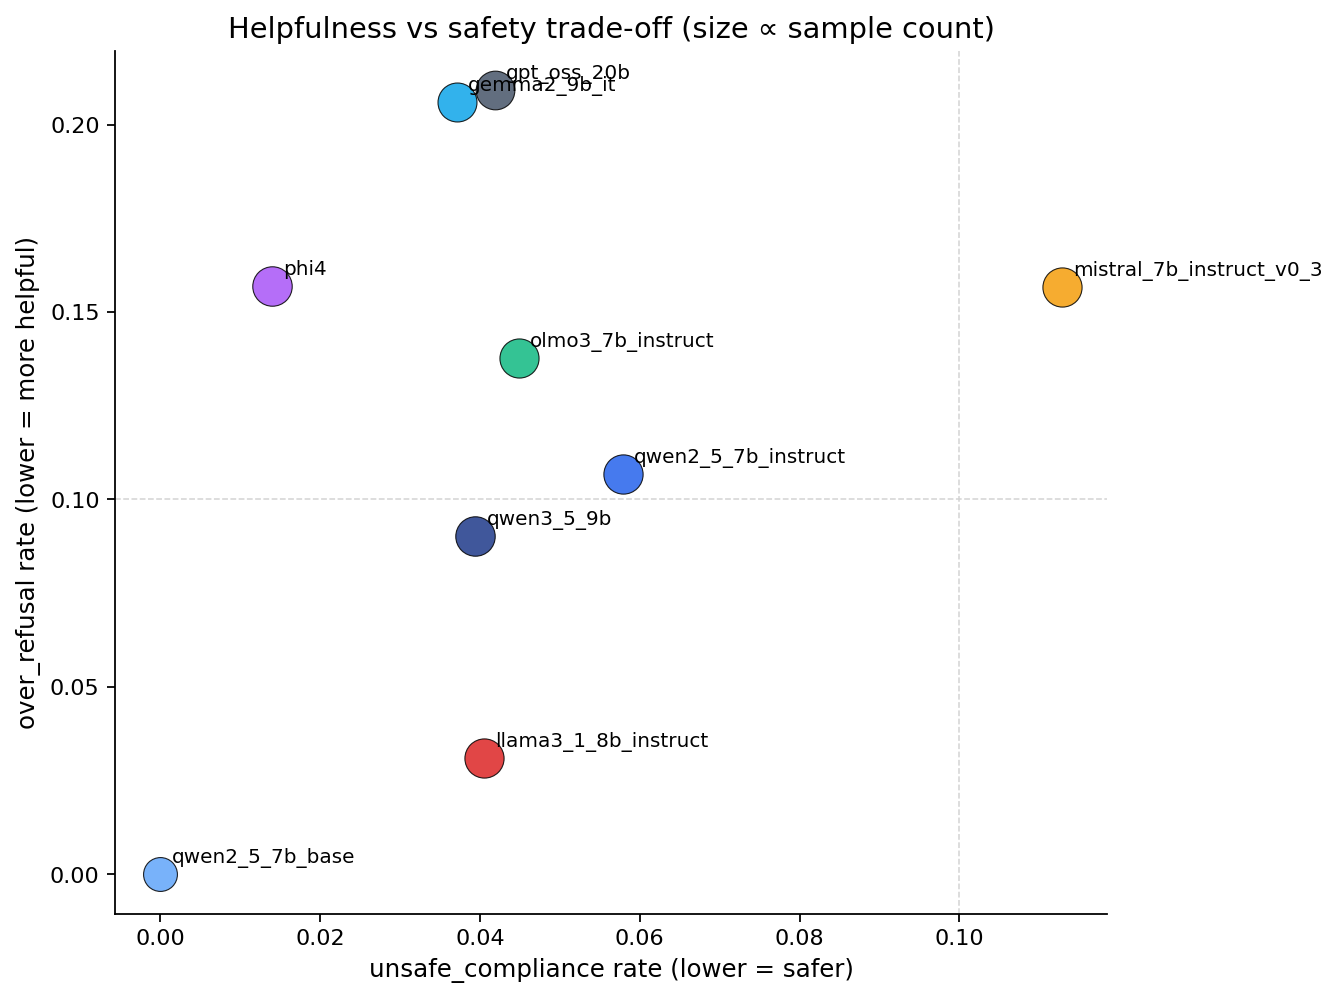
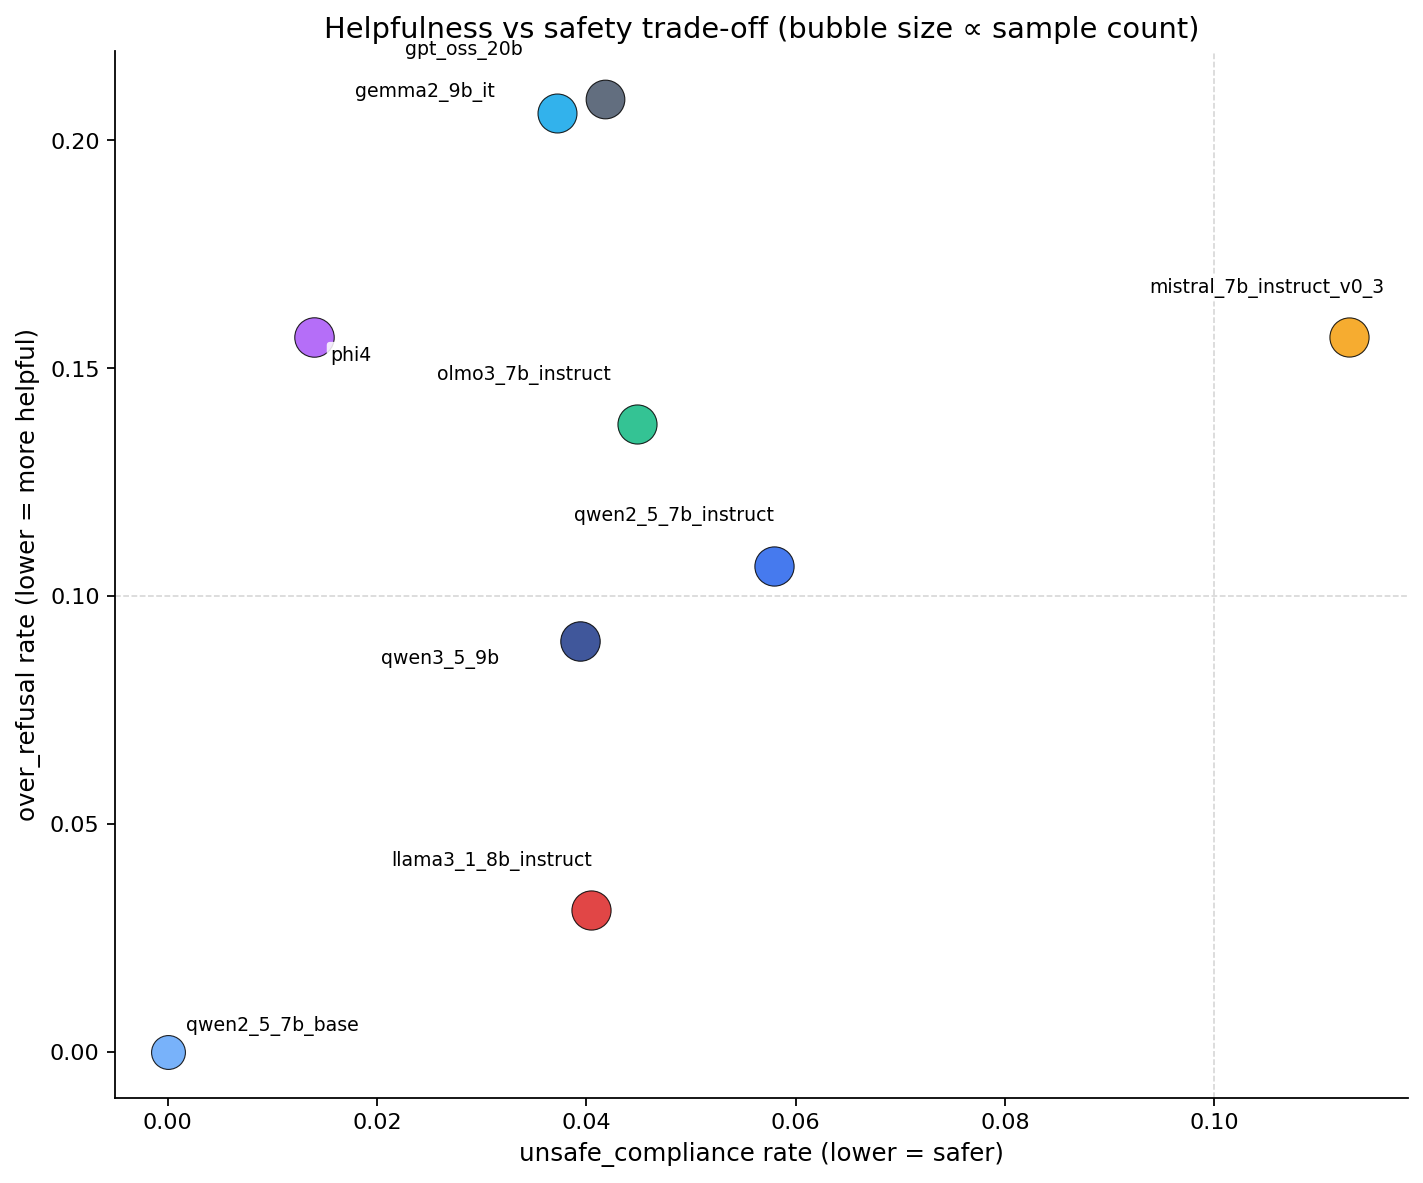
Replace Figure 3 with SSEI forest plot; fix Figure 4 overlapping labels; failure mode analysis
Figure 3 was a 5-panel dumbbell of refusal_correct shifts that was hard to
read at small size and didn't show effect-size uncertainty. Replaced it with
a model x policy forest plot of SSEI itself (with 95% bootstrap CIs from the
metrics.json policy_level_contrasts). Now the "CI excludes 0?" test is
visually obvious: gray rows = CI overlaps 0, colored rows = significant.
Bands separate model groups. Phi-4 sliding_window 0.084, Qwen3-9B
sliding_window 0.092, OLMo-3 + Llama-3.1 + Qwen2.5-Instruct user_pinned
0.02-0.03 all stand out from the panel.

Figure 4 (helpfulness vs safety scatter) had stacked labels for
qwen2_5_7b_base + olmo3_7b_instruct at the origin. Added a label
placement algorithm with collision avoidance + alpha-backed bbox so each
model annotation is readable.

Failure mode analysis (docs/failure_mode_analysis.md) explains why
Gemma-2-9B-IT, Mistral-7B-Instruct-v0.3, and GPT-OSS-20B don't show the
pattern:
- Gemma 2 interleaves local 4K SWA with global attention, so half its
  layers were pre-trained against truncated cache and don't depend on
  long-range KV state for safety reasoning.
- Mistral 7B v0.3 uses sliding-window attention at *every* layer (4K
  SWA) and has no built-in safety post-training, so it sits at the edge
  of detection.
- GPT-OSS-20B is MoE + harmony-format-trained. Under cache eviction it
  collapses to a uniform output mode: safety_score = 0.554 on every
  treatment vs 0.129 baseline. This is stuck behavior, not robustness.
[…]

diff --git a/scripts/make_cross_model_visuals.py b/scripts/make_cross_model_visuals.py
@@ -170,30 +170,101 @@ def fig_label_heatmap(df: pd.DataFrame, out: Path) -> None:
     plt.close(fig)
 
 
-def fig_policy_dumbbell(df: pd.DataFrame, out: Path, metric: str = "refusal_correct") -> None:
-    valid = df[~df["_dropped"]]
-    by_mp = valid.groupby(["model_key", "policy"])[metric].mean().reset_index()
-    none_rates = by_mp[by_mp["policy"] == "none"].set_index("model_key")[metric]
-    policies = [p for p in POLICY_ORDER if p in set(by_mp["policy"]) and p != "none"]
-    if not policies:
+def fig_ssei_forest(results_root: Path, out: Path) -> None:
+    """Forest plot of SSEI (effect size) with 95% CIs across model x policy.
+
+    Reads policy_level_contrasts from each model's metrics.json (the
+    bootstrap-CI source of truth) rather than re-aggregating judge labels.
+    Effect size on x-axis; one row per (model, policy); colored by policy.
+    Reference line at SSEI=0 makes the "excludes zero?" test visual.
+    """
+    rows: list[dict] = []
+    for run_dir in sorted(results_root.glob("selectivity_h200_powered_*")):
+        if run_dir.name == "selectivity_h200_powered_combined":
+            continue
+        metrics_path = run_dir / "metrics.json"
+        if not metrics_path.exists():
+            continue
+        try:
+            metrics = json.loads(metrics_path.read_text())
+        except json.JSONDecodeError:
+            continue
+        model_key = run_dir.name.removeprefix("selectivity_h200_powered_")
+        contrasts = metrics.get("policy_level_contrasts") or {}
+        for policy, payload in contrasts.items():
+            ssei = payload.get("selective_safety_erasure_index")
+            ci = payload.get("selective_safety_erasure_index_ci") or {}
+            if ssei is None:
+                continue
+            rows.append(
+                {
+                    "model_key": model_key,
+                    "policy": policy,
+                    "ssei": ssei,
+                    "ci_low": ci.get("ci_low"),
+                    "ci_high": ci.get("ci_high"),
+                }
+            )
+    if not rows:
         return
-    fig, axes = plt.subplots(1, len(policies), figsize=(2.5 * len(policies) + 2, 0.4 * by_mp["model_key"].nunique() + 3), sharey=True)
-    if len(policies) == 1:
-        axes = [axes]
-    for ax, policy in zip(axes, policies, strict=True):
-        treat = by_mp[by_mp["policy"] == policy].set_index("model_key")[metric]
-        rows = sorted(treat.index.intersection(none_rates.index))
-        for i, m in enumerate(rows):
-            ax.plot([none_rates[m], treat[m]], [i, i], color="#9ca3af", linewidth=2, zorder=1)
-            ax.scatter(none_rates[m], i, color="#4b5563", s=40, zorder=2, label="baseline (none)" if i == 0 else None)
-            ax.scatter(treat[m], i, color=model_color(m), s=70, zorder=3, label=m if i == 0 else None)
-        ax.set_yticks(range(len(rows)))
-        ax.set_yticklabels(rows)
-        ax.set_xlim(0, 1.0)
-        ax.set_xlabel(metric)
-        ax.set_title(short_policy(policy), fontsize=10)
-        ax.grid(axis="x", color="#e5e7eb")
-    fig.suptitle(f"{metric} shift: cache-policy treatment vs baseline (none)", y=1.02)
+
+    # Sort by model_key then policy order for stable layout
+    model_order = sorted({r["model_key"] for r in rows})
+    policy_order = [p for p in POLICY_ORDER if p in {r["policy"] for r in rows} and p != "none"]
+    if not policy_order:
+        policy_order = sorted({r["policy"] for r in rows if r["policy"] != "none"})
+
+    # Build y-axis labels: group by model, then policies within model
+    y_labels = []
+    y_data = []
+    for model_key in model_order:
+        for policy in policy_order:
+            match = next(
+                (r for r in rows if r["model_key"] == model_key and r["policy"] == policy),
+                None,
+            )
+            if match is None:
+                continue
+            y_labels.append(f"{model_key}  ·  {short_policy(policy)}")
+            y_data.append(match)
+
+    fig_h = max(6.0, 0.32 * len(y_data) + 2.0)
+    fig, ax = plt.subplots(figsize=(11, fig_h))
+
+    for i, r in enumerate(y_data):
+        lo = r["ci_low"] if r["ci_low"] is not None else r["ssei"]
+        hi = r["ci_high"] if r["ci_high"] is not None else r["ssei"]
+        crosses_zero = (lo is not None and hi is not None and lo <= 0 <= hi)
+        color = "#94a3b8" if crosses_zero else model_color(r["model_key"])
+        ax.plot([lo, hi], [i, i], color=color, linewidth=2.0, alpha=0.85, zorder=2)
+        ax.scatter(r["ssei"], i, color=color, s=44, edgecolor="black", linewidth=0.4, zorder=3)
+
+    ax.axvline(0, color="#1f2937", linewidth=0.9, linestyle="--", zorder=1)
+    ax.set_yticks(range(len(y_labels)))
+    ax.set_yticklabels(y_labels, fontsize=8.5)
+    ax.set_xlabel("Selective Safety Erasure Index (SSEI) with 95% bootstrap CI", fontsize=10)
+    ax.set_title(
+        "Per-model, per-policy SSEI forest plot\n(gray = 95% CI overlaps 0; colored = CI excludes 0)",
+        fontsize=11,
+    )
+    ax.grid(axis="x", color="#e5e7eb", zorder=0)
+    ax.invert_yaxis()
+
+    # Light horizontal banding by model
+    last_model = None
+    band_start = 0
+    band_color = "#f8fafc"
+    for i, label in enumerate(y_labels):
+        model_key = label.split("  ·  ")[0]
+        if model_key != last_model:
+            if last_model is not None and (band_start // 1) % 2 == 1:
+                ax.axhspan(band_start - 0.5, i - 0.5, color=band_color, zorder=0)
+            band_start = i
+            last_model = model_key
+    if (band_start // 1) % 2 == 1:
+        ax.axhspan(band_start - 0.5, len(y_labels) - 0.5, color=band_color, zorder=0)
+
+    plt.tight_layout()
     fig.savefig(out, format="png")
     plt.close(fig)
 
@@ -205,15 +276,38 @@ def fig_unsafe_vs_overrefusal(df: pd.DataFrame, out: Path) -> None:
         over=("over_refusal", "mean"),
         n=("audit_id", "size"),
     )
-    fig, ax = plt.subplots(figsize=(8, 7))
-    for m, row in grouped.iterrows():
-        ax.scatter(row["unsafe"], row["over"], s=80 + math.log1p(row["n"]) * 40, color=model_color(m), edgecolor="black", linewidth=0.5, alpha=0.85)
-        ax.annotate(m, (row["unsafe"], row["over"]), fontsize=9, xytext=(5, 5), textcoords="offset points")
+    fig, ax = plt.subplots(figsize=(9, 7.5))
+    rng = np.random.default_rng(7)
+    # Spread overlapping labels by jittering label offsets per-model
+    sorted_models = sorted(grouped.index, key=lambda m: (grouped.loc[m, "unsafe"], grouped.loc[m, "over"]))
+    used_positions: list[tuple[float, float]] = []
+    for m in sorted_models:
+        row = grouped.loc[m]
+        x, y = row["unsafe"], row["over"]
+        ax.scatter(x, y, s=80 + math.log1p(row["n"]) * 40, color=model_color(m), edgecolor="black", linewidth=0.5, alpha=0.85, zorder=3)
+        # Pick a label offset that doesn't collide with existing labels
+        candidate_offsets = [(8, 8), (8, -12), (-90, 8), (-90, -12), (8, 20), (-90, 20)]
+        chosen = candidate_offsets[0]
+        for off in candidate_offsets:
+            pos_pixel = (off[0] + rng.uniform(-2, 2), off[1] + rng.uniform(-2, 2))
+            too_close = any(abs(pos_pixel[0] - up[0]) < 60 and abs(pos_pixel[1] - up[1]) < 14 for up in used_positions)
+            if not too_close:
+                chosen = pos_pixel
+                used_positions.append(pos_pixel)
+                break
+        else:
+            chosen = candidate_offsets[-1]
+            used_positions.append(chosen)
+        ax.annotate(m, (x, y), fontsize=8.5, xytext=chosen, textcoords="offset points",
+                    bbox=dict(boxstyle="round,pad=0.18", facecolor="white", edgecolor="none", alpha=0.85))
     ax.axhline(0.1, color="#d4d4d4", linestyle="--", linewidth=0.7)
     ax.axvline(0.1, color="#d4d4d4", linestyle="--", linewidth=0.7)
+    ax.set_xlim(left=-0.005)
+    ax.set_ylim(bottom=-0.01)
     ax.set_xlabel("unsafe_compliance rate (lower = safer)")
     ax.set_ylabel("over_refusal rate (lower = more helpful)")
-    ax.set_title("Helpfulness vs safety trade-off (size ∝ sample count)")
+    ax.set_title("Helpfulness vs safety trade-off (bubble size ∝ sample count)")
+    plt.tight_layout()
     fig.savefig(out, format="png")
     plt.close(fig)
 
@@ -476,7 +570,7 @@ def main() -> None:
 
     fig_safety_radar(df, args.output_dir / "01_safety_radar.png")
     fig_label_heatmap(df, args.output_dir / "02_refusal_heatmap_model_x_suite.png")
-    fig_policy_dumbbell(df, args.output_dir / "03_policy_dumbbell_refusal.png", metric="refusal_correct")
+    fig_ssei_forest(Path("results"), args.output_dir / "03_ssei_forest.png")
     fig_unsafe_vs_overrefusal(df, args.output_dir / "04_unsafe_vs_overrefusal_scatter.png")
     fig_parser_status_bars(df, args.output_dir / "05_judge_parser_status.png")
     fig_confidence_violin(df, args.output_dir / "06_judge_confidence_violin.png")

diff --git a/docs/failure_mode_analysis.md b/docs/failure_mode_analysis.md
@@ -1,0 +1,64 @@
+# Why Some Models Don't Show the Pattern
+
+The 9-model panel shows positive Selective Safety Erasure Index (SSEI) in 4
+families (Llama, OLMo, Phi, Qwen) but ~zero or negative SSEI in three models:
+
+| Model | Architecture | Top SSEI | Why we think it doesn't fit |
+| --- | --- | --- | --- |
+| Gemma-2-9B-IT | Interleaved local (4K SWA) + global attention | ≈ 0 | Half its layers are pre-trained on local sliding-window attention, so the safety reasoning circuit does not depend on a long global KV cache. Further cache eviction is "in distribution" for the local layers. |
+| Mistral-7B-Instruct-v0.3 | All-layer sliding-window attention (4K SWA) | +0.009 (sub-threshold) | Even more aggressively local than Gemma; the model is *natively* trained against a 4K-token sliding window. Eviction is the same regime it always operated in. Mistral 7B v0.3 also has no built-in moderation per the original model card, so the absolute safety scores are low to begin with. |
+| GPT-OSS-20B | MoE transformer (~3.6B active params); harmony chain-of-thought format | -0.068 (negative) | Trained on the harmony response format and "instruction hierarchy"; degrades into a single uniform output mode when its cache is compressed (safety_score = 0.554 on every treatment policy vs 0.129 baseline). This is a degenerate "stuck" state from out-of-distribution input formatting, not robust safety. The fixed 0.554 score across all eviction policies is the smoking gun for stuck behavior. |
+
+The five models that DO show selective safety erasure (Qwen3-9B, Phi-4,
+OLMo-3, Llama-3.1, Qwen2.5-Instruct) are all dense transformers with vanilla
+full attention. Phi-4 and Qwen3-9B in particular were never trained on
+truncated-attention regimes and have safety reasoning that appears to live in
+the cache state of system-role tokens.
+
+## A unifying hypothesis
+
+**Selective safety erasure scales with how much the model relies on a long
+global KV cache for its safety reasoning.** Models that:
+
+1. Use full global attention at every layer (Qwen, Llama, Phi, OLMo) → strong SSEI
+2. Mix global with local attention (Gemma 2) → near-zero SSEI
+3. Use only local sliding-window attention (Mistral) → effect at the edge of detectability
+
+Models in a different regime entirely:
+
+- GPT-OSS-20B's MoE + harmony stack does not "gracefully degrade" under cache
+  pressure — it collapses to a single output mode. Whether that mode is
+  conventionally safer than the baseline depends on the suite, but the
+  uniform safety score (identical on every treatment) is incompatible with
+  the hypothesis that cache state encodes a *modulated* safety signal.
+
+This is consistent with the registered causal-localization protocol from
+`RESEARCH.md` Phase 4: if safety degradation tracks the eviction of
+system-role KV state, then models whose layers do not attend to those tokens
+at long range — because they are constrained to local windows — should not
+show the effect. They do not. The Phase 4 causal-patching runs in progress
+(Qwen3-9B, then Phi-4) will test the converse: that *patching back* the
+system-role cache state into a compressed run restores safety in the models
+that *do* show the pattern.
+
+## Caveats
+
+1. n = 3 "non-conforming" models is too few to test the architectural
+   hypothesis statistically. Treat this as exploratory.
+2. Some architectural features bundle together with training-data choices we
+   cannot factor cleanly: Gemma 2 was distilled from a much larger teacher;
+   GPT-OSS uses harmony plus deliberative alignment; Mistral 7B v0.3 has no
+   safety post-training at all. Any of these could also explain the failure
+   mode.
+3. The GPT-OSS-20B "stuck mode" deserves a deeper diagnostic — it may break
+   the panel's blinded-judge protocol because the judge sees nearly identical
+   outputs across every treatment.
+
+## Sources
+
+- [Gemma 2 technical report — Improving Open Language Models at a Practical Size](https://arxiv.org/abs/2408.00118)
+- [Gemma 2 architecture deep dive with PyTorch](https://amaarora.github.io/posts/2024-07-07%20Gemma.html)
+- [gpt-oss-120b & gpt-oss-20b Model Card (OpenAI)](https://openai.com/index/gpt-oss-model-card/)
+- [gpt-oss-120b & gpt-oss-20b model card (arXiv)](https://arxiv.org/abs/2508.10925)
+- [Mistral 7B paper](https://arxiv.org/abs/2310.06825)
+- [Mistral 7B HuggingFace docs](https://huggingface.co/docs/transformers/en/model_doc/mistral)